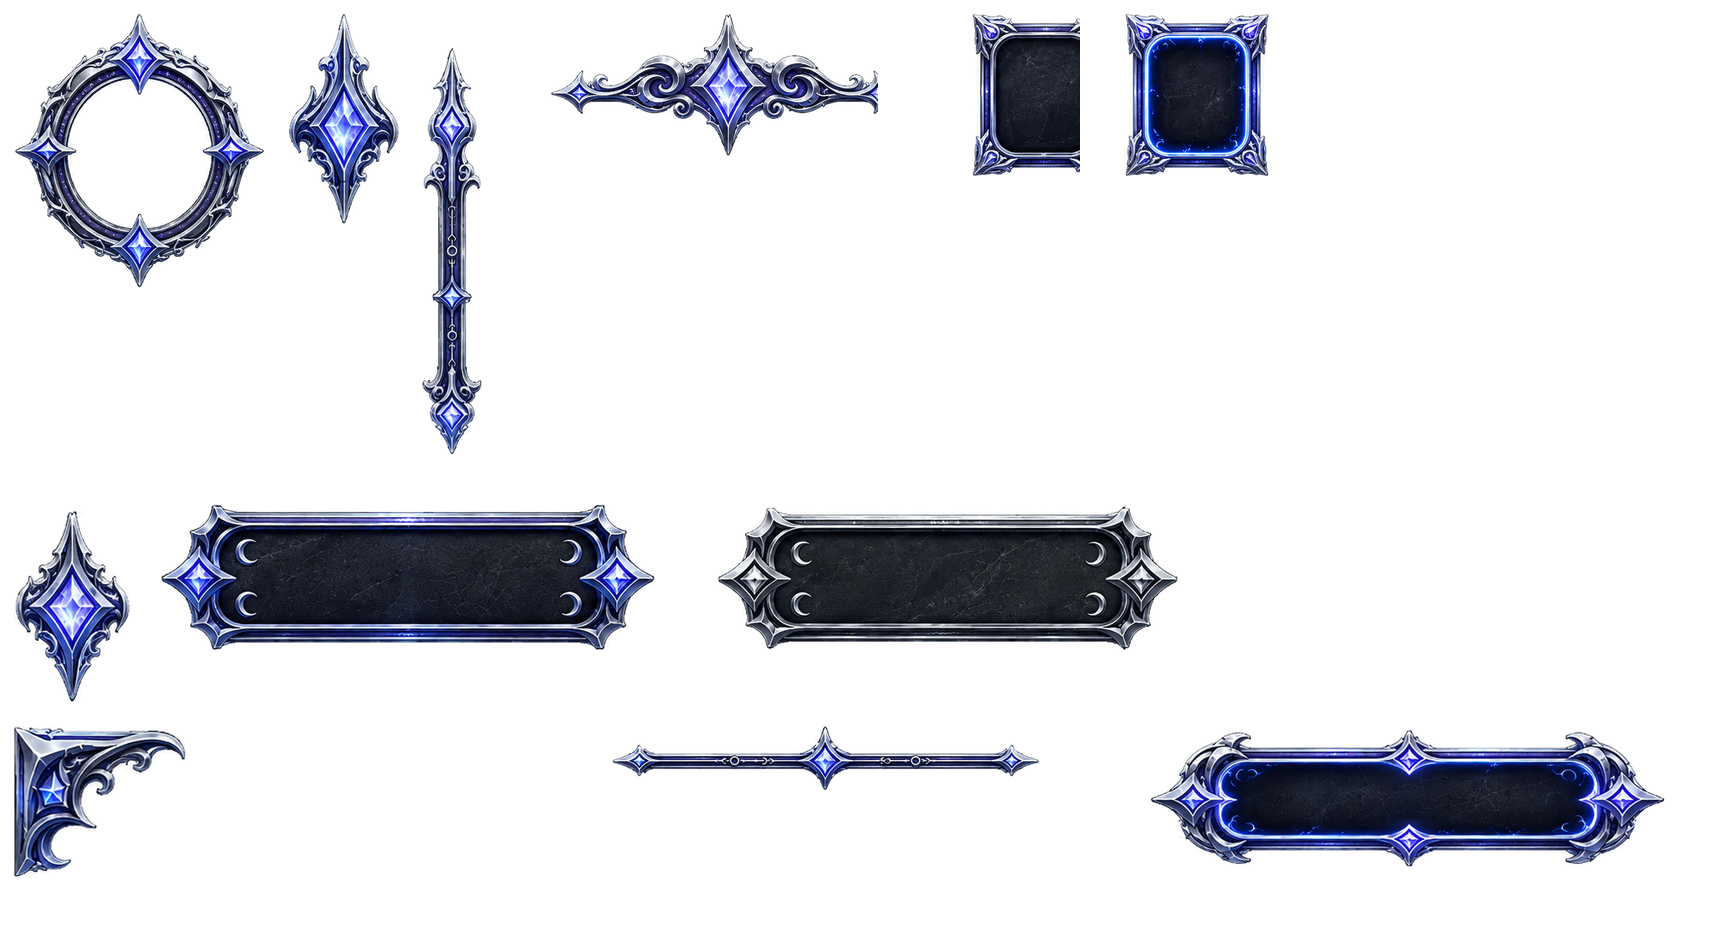
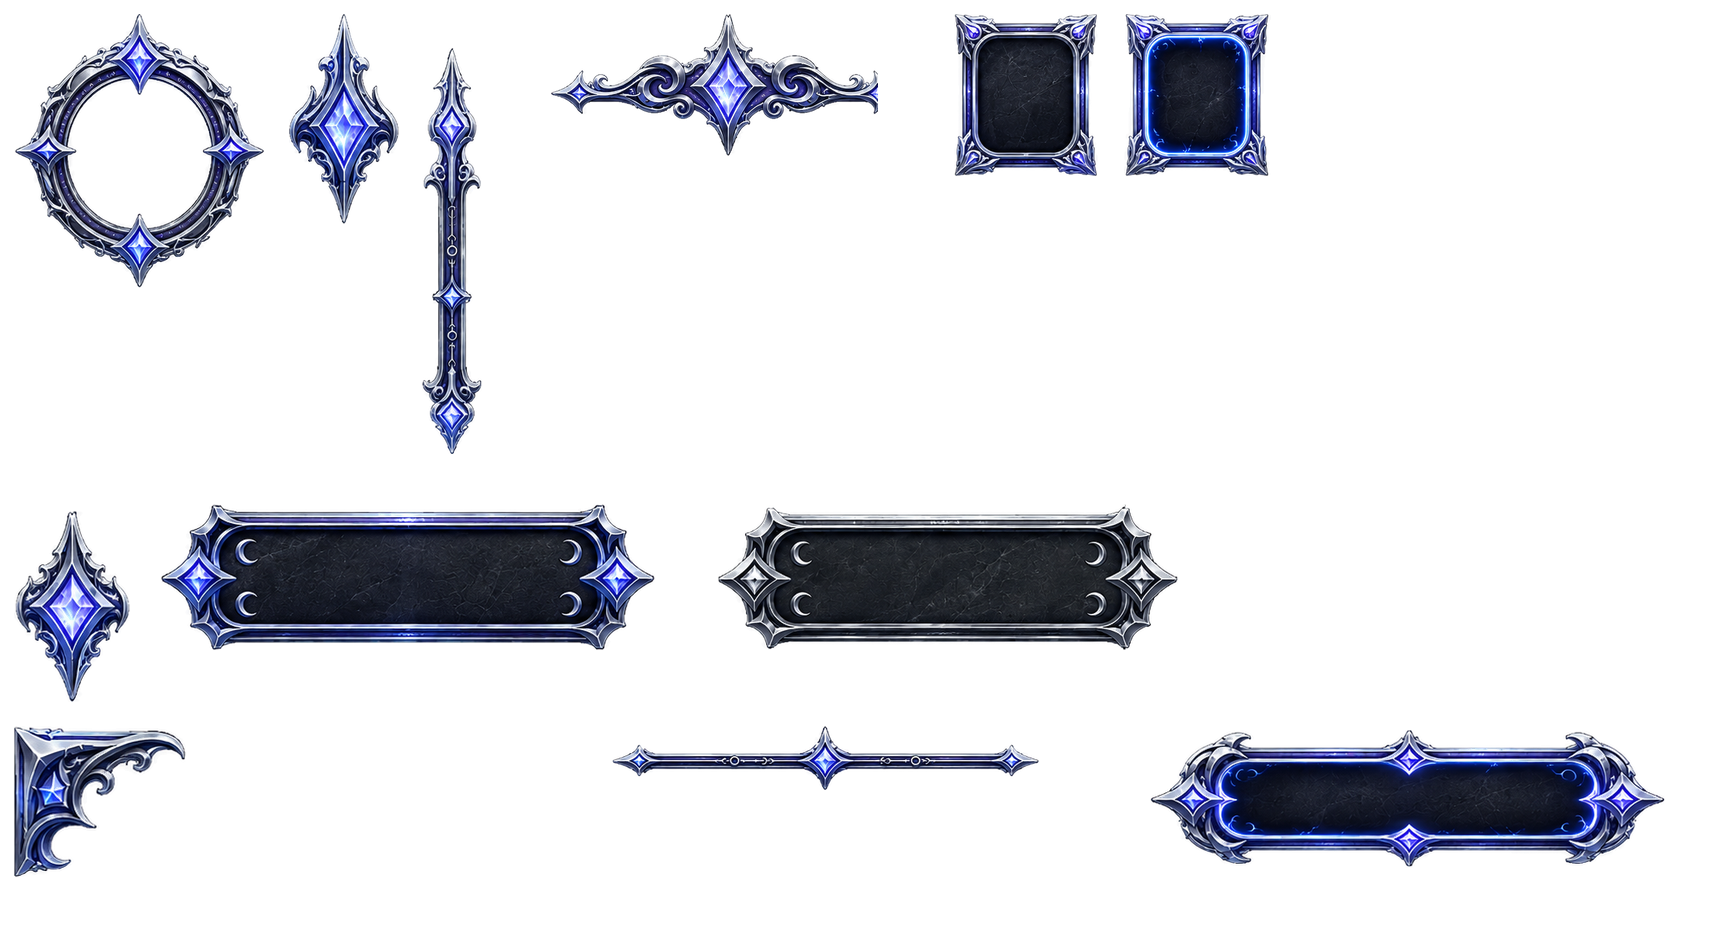
Fix clipped lunar-spectral nav frames at the source
The lunar-spectral source preview places its idle/active nav frames at
x 1266-1467 and 1487-1689, right of the shared crop windows; window 4
ended at 1420 and sliced the idle frame's right-hand border off (106 px
wide beside the active frame's 142). That is the clipped inventory
buttons in zones 14/23/27. The earlier hand-edited .webp hid it but left
the .png clipped and would have been overwritten by the next rebuild.

- tools/rebuild_skill_atlases.py: lunar-spectral windows 4/5 split in the
  gap between the frames (1477), as verdant already does.
- Rebuilt: only the lunar-spectral .png/.webp change (both frames now
  complete, 140/142 px, PNG and WebP matching); the other 16 atlas files
  are byte-identical.
- tests: new check that the idle/active frames match in width (healthy
  themes 0.947+, clipped lunar 0.746); verified it fails without the
  override. The lunar aspect pin moves from 0.62-0.72, which was measured
  off the clipped crop (0.66), to 0.82-0.93 around the source's 0.874.

Changed region(s): [[0.5547, 0.0, 0.6471, 0.2117]]

diff --git a/tests/test_rebuild_skill_atlases.py b/tests/test_rebuild_skill_atlases.py
@@ -140,6 +140,24 @@ class RebuildSkillAtlasesTest(unittest.TestCase):
                         f"{theme}: under-filled slot {box}",
                     )
 
+                # The idle/active nav frames (slots 4 and 5) are the same
+                # ornament, so their opaque widths must match. A crop window
+                # that slices one side off leaves the occupancy check above
+                # satisfied; this catches it. Healthy themes sit at 0.947+;
+                # the clipped lunar-spectral idle frame was 106 vs 142 = 0.746.
+                def opaque_width(logical_box):
+                    x0, y0, x1, y1 = (value * PIXEL_RATIO for value in logical_box)
+                    columns = np.where((png_pixels[y0:y1, x0:x1, 3] > 40).sum(axis=0) > 20)[0]
+                    return int(columns.max() - columns.min() + 1) if columns.size else 0
+
+                idle_width = opaque_width(TARGET_BOXES[4])
+                active_width = opaque_width(TARGET_BOXES[5])
+                self.assertGreaterEqual(
+                    min(idle_width, active_width) / max(idle_width, active_width, 1),
+                    0.9,
+                    f"{theme}: nav frames differ in width ({idle_width} vs {active_width}) - one is clipped",
+                )
+
                 outside = Image.new("L", png.size, 0)
                 outside.paste(alpha)
                 outside.paste(0, mask=allowed)
@@ -204,8 +222,11 @@ class RebuildSkillAtlasesTest(unittest.TestCase):
                     aspect, _ = strong_ink_aspect(TARGET_BOXES[3])
                     self.assertTrue(2.35 < aspect < 2.55, aspect)
                 if theme == "lunar-spectral":
+                    # Source idle frame: 202 x 231 px = 0.874. The old
+                    # 0.62-0.72 range was measured off the CLIPPED crop
+                    # (0.66) and pinned the bug it should have caught.
                     aspect, _ = strong_ink_aspect(TARGET_BOXES[4])
-                    self.assertTrue(0.62 < aspect < 0.72, aspect)
+                    self.assertTrue(0.82 < aspect < 0.93, aspect)
                 if theme == "runic-arcane":
                     aspect, bounds = strong_ink_aspect(TARGET_BOXES[9])
                     self.assertTrue(1.18 < aspect < 1.36, aspect)

diff --git a/tools/rebuild_skill_atlases.py b/tools/rebuild_skill_atlases.py
@@ -73,6 +73,14 @@ SOURCE_REGIONS = (
 )
 
 SOURCE_REGION_OVERRIDES = {
+    # Lunar-spectral's nav pair sits right of the shared windows: the idle
+    # frame spans x 1266-1467 and the active one 1487-1689, so the default
+    # window 4 (ending at 1420) sliced the idle frame's right-hand border off —
+    # the clipped inventory buttons in zones 14/23/27. Split in the gap.
+    "lunar-spectral": {
+        4: (1240, 0, 1477, 330),
+        5: (1477, 0, 1710, 330),
+    },
     # Verdant's generated nav pair sits about 110 px left of the otherwise
     # consistent top-row layout. Without explicit windows, the idle crop picks
     # the active frame and the active crop stretches only its right-hand side.
